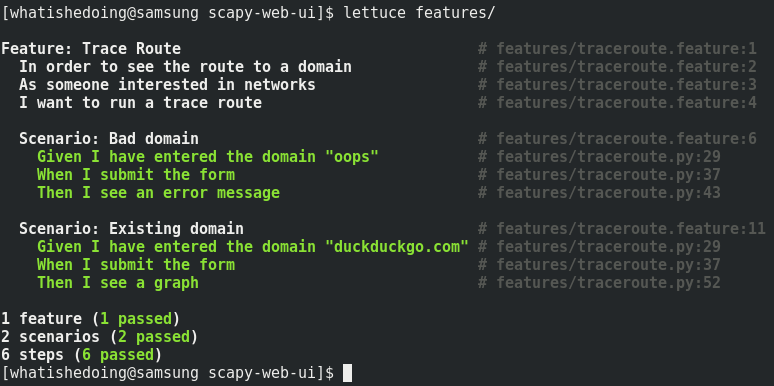
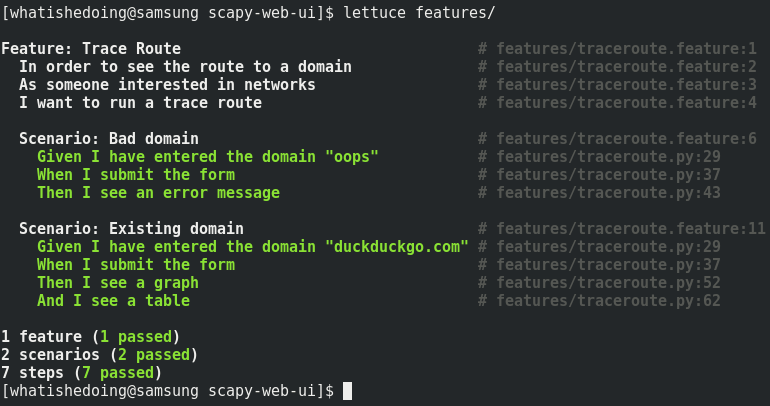
Rendering trace route table

diff --git a/templates/index.html b/templates/index.html
@@ -46,7 +46,7 @@
             <div class="panel-body">
                 <div class="container-fluid">
                     <div class="row">
-                        <div class="col-md-4">
+                        <div class="col-md-12">
                             <form>
                                 <div class="form-group">
                                     <label class="control-label" for="domain">Domain</label>
@@ -61,8 +61,11 @@
                                 </div>
                             </form>
                         </div>
+                    </div>
 
-                        <div id="result" class="col-md-8"></div>
+                    <div class="row">
+                        <div id="table" class="col-md-4"></div>
+                        <div id="graph" class="col-md-8"></div>
                     </div>
                 </div>
             </div>

diff --git a/main.py b/main.py
@@ -1,28 +1,43 @@
 #! /usr/bin/env python
 """Scapy Web UI: Single Page App."""
-from flask import Flask,render_template
+import time
+from flask import Flask, json, render_template
 from scapy.layers.inet import traceroute
 
 app = Flask(__name__)
+
+cached_trace_routes = {}
 
 @app.route("/")
 def index():
     """Renders the Single Page App."""
     return render_template("index.html")
 
-@app.route("/traceroute/<domain>")
+@app.route("/api/traceroute/<domain>")
 def trace_route(domain):
     """Performs a trace route and returns the SVG graph."""
     # http://scapy.readthedocs.io/en/latest/usage.html#tcp-traceroute-2
+    # Return the cached domain if it exists.
+    if domain in cached_trace_routes:
+        return cached_trace_routes[domain]
+
+    # Run trace route.
     result, _ = traceroute([domain], dport=[80,443], maxttl=20, retry=-2)
 
     # TODO Create the graph in memory.
-    filename = "/tmp/graph.svg"
+    filename = "/tmp/graph-" + domain + ".svg"
     output = "> " + filename
     result.graph(target=output)
+    time.sleep(1)
+    svg = open(filename).read()
 
-    # TODO Return JSON object with individual IPs.
-    return open(filename).read()
+    # Project simple details of the routes taken.
+    routes = [(tcp.dst, ip.sprintf("%dst%:%sport%")) for tcp, ip in result]
+
+    # Cache and return the result.
+    result = json.dumps({ "svg": svg, "routes": routes })
+    cached_trace_routes[domain] = result
+    return result
 
 if __name__ == "__main__":
     app.run()

diff --git a/features/traceroute.py b/features/traceroute.py
@@ -53,7 +53,17 @@ def see_a_graph(_):
     wait = WebDriverWait(world.driver, 20)
 
     try:
-        element = wait.until(WaitForHtmlToMatch((By.ID, "result"), "<svg"))
-        assert element is not None
+        graph = wait.until(WaitForHtmlToMatch((By.ID, "graph"), "<svg"))
+        assert graph is not None
+    except:
+        assert False
+
+@step
+def see_a_table(_):
+    wait = WebDriverWait(world.driver, 20)
+
+    try:
+        table = wait.until(WaitForHtmlToMatch((By.ID, "table"), "<table"))
+        assert table is not None
     except:
         assert False
